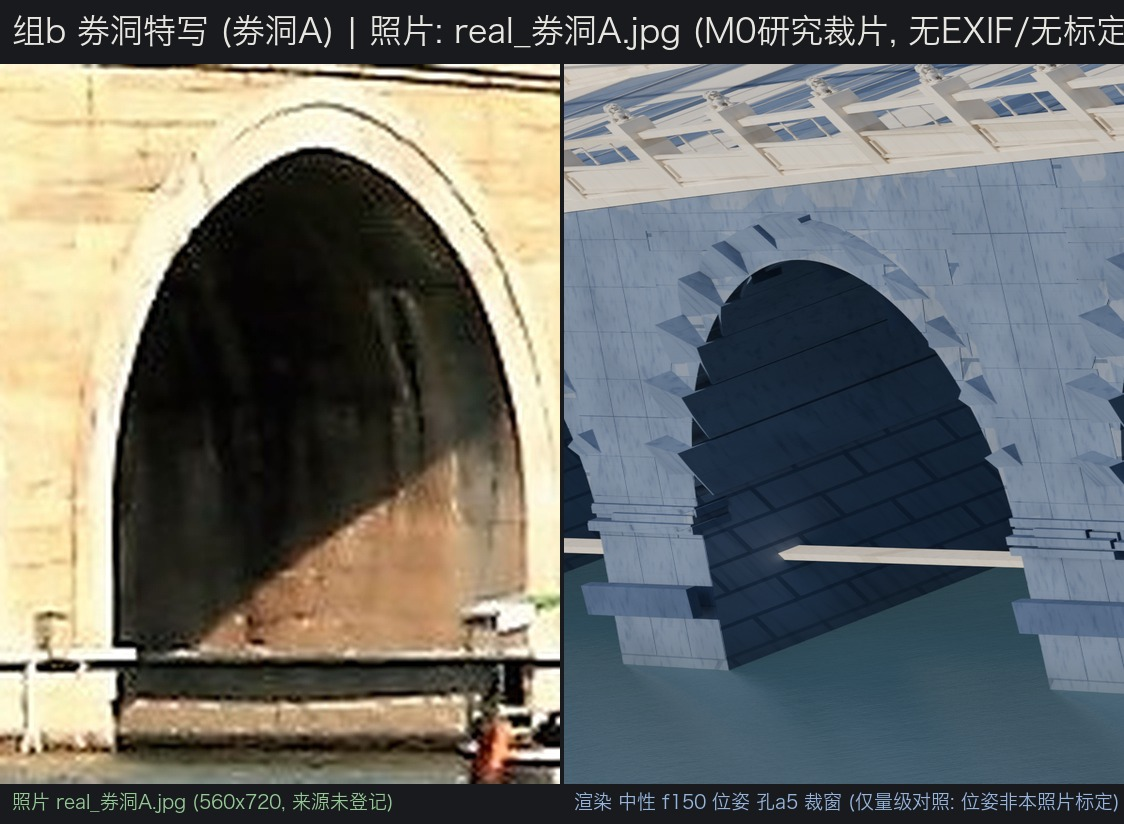
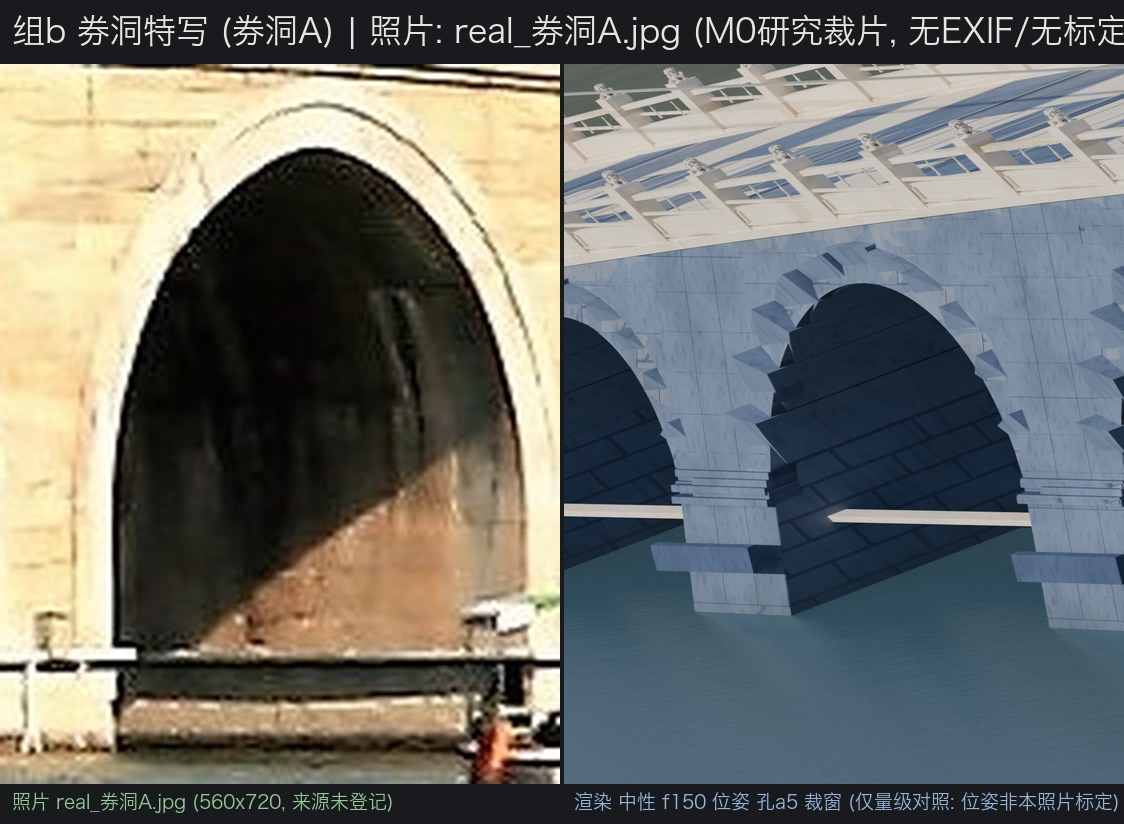
feat(e30): M23最终包——wlfit位姿金光三张落地+全pairs重拼(券洞B单孔对单孔)+params终版
- 金光 b/c/d wlfit位姿版落地(1024-1322s), GOLDEN pairs 重拼; pair_c 单孔对单孔裁窗
- params: 6 组终版 blend_sha16=adc59a5a + wlfit 位姿记录入档
- 包就绪待 GPT 审

Changed region(s): [[0.4982, 0.0607, 1.0, 0.8495], [0.9653, 0.3034, 1.0, 0.3337], [0.8407, 0.3034, 0.8719, 0.3337]]

diff --git a/e30_shikongqiao_video/3d/compare_pack_compose.py b/e30_shikongqiao_video/3d/compare_pack_compose.py
@@ -109,7 +109,11 @@ def pair_arch(lab, ftag, crop_json):
     photo = Image.open(os.path.join(HERE, f"real_券洞{lab}.jpg")).convert("RGB")
     grp = {"A": "b", "B": "c", "C": "d"}[lab]
     ren = Image.open(os.path.join(REN, f"{'golden_' if GOLDEN else ''}{grp}_{ftag}.png")).convert("RGB")
-    box = crop_json[lab]["crop"]  # 1920x1080 标定画幅坐标
+    box = list(crop_json[lab]["crop"])  # 1920x1080 标定画幅坐标
+    if lab == "B":  # 单孔对单孔: 券洞B 拱门满幅裁窗(收 15%/8%)
+        box = [box[0] + int((box[2] - box[0]) * 0.15), box[1] + int((box[3] - box[1]) * 0.08),
+               box[2] - int((box[2] - box[0]) * 0.15), box[3] - int((box[3] - box[1]) * 0.08)]
+    box = tuple(box)
     rw, rh = ren.size
     s = rw / 1920.0
     rbox = tuple(int(v * s) for v in box)

diff --git a/e30_shikongqiao_video/3d/out/compare_pack/gpt_review_brief.md b/e30_shikongqiao_video/3d/out/compare_pack/gpt_review_brief.md
@@ -1,0 +1,28 @@
+# GPT 视觉审 · 提问提纲 v2(主控用,配图发送;v2=拱形修复后)
+
+审对象: `pairs/` 全部拼图 + `overlay_f175_lines.jpg`(最新数值)。
+读图口径: **中性版** (`pair_*_f*.jpg` 无 GOLDEN 后缀) = 材质判读基准; **金光版** (`*_GOLDEN*`) = 时段光对齐版; 两版 albedo 相同,暖调全来自灯光。
+
+## 已声明项(勿重复扣分,请针对未声明的新问题)
+1. **拱形修复记录**: 初版模型券洞误为两圆心尖拱(ogee),已返工为单心圆弧拱(17 孔)。形状族闸门 MET_ARCH_SHAPE 负控制先红(旧 ogee rms/r=0.0144)后绿(修复后 17 孔 ≤1.4e-12),证据 `3d/refs/arch_shape_redgreen.txt`。本包渲染全部基于修复后几何
+2. b/c/d 组: 照片无标定位姿 → "仅量级对照",非逐像素对齐验收
+3. 栏板石狮/靠山兽: 程序化低模,造型级非细节级(账外件口径)
+4. 照片裁片疑似 ESRGAN 放大平滑,渲染为原始采样——颗粒差异不判材质优劣
+5. 冬照组 e: 位姿 n=7 强退化,渲染视角偏高,"仅量级对照"
+6. f 组照片侧为正射拼接,非单一实拍
+7. 券石环放射缝是砌法特征(逐块券石的接缝),非瑕疵
+
+## 六问(逐项给 PASS/FAIL + 一句依据)
+1. **拱形**: 券洞圆弧族与照片是否一致(冠部圆顺、无尖点、中孔近半圆端孔渐浅)?——这是刚修过的部位,请重点挑刺
+2. **石缝**: 渲染侧砌缝(拱肩横缝/墩身竖错缝/券圈环缝+放射缝)的存在性与层级是否可读?与实拍缝的对比度差距量级?
+3. **分色**: 青石/汉白玉/灰浆三类材质在渲染里是否可辨?券圈与砧石贴面的亮度阶梯够不够?
+4. **风化**: 实拍拱肩下缘黑色锈带/竖向污渍带是照片最强特征——渲染的风化表达缺什么?给可执行的节点级建议(pointiness/streak/AO)
+5. **金光时段**: GOLDEN 版与实拍金光照片并读——色温/光向/拱腹辉光三要素哪些到位哪些缺?
+6. **几何其余项**: 轮廓/孔位关系/栏板节奏有无硬伤(非位姿观感差的已知项)?
+
+## 水线图专项
+`overlay_f175_lines.jpg`: 蓝线=模型预测水线(z=0 基准)。初版实测系统性低 49-56px(位姿垂直退化),已用水线作 z=0 平面约束重解位姿——**以 _summary.json 最新数值为准**。
+问: 残差量级是否支持"垂直标定已收敛"?仍系统偏移则指向什么?
+
+## 输出格式
+每问 PASS/FAIL + 依据一句;末尾"最优先修的 3 件事"排序;提纲未覆盖的新问题单列"额外发现"节。
